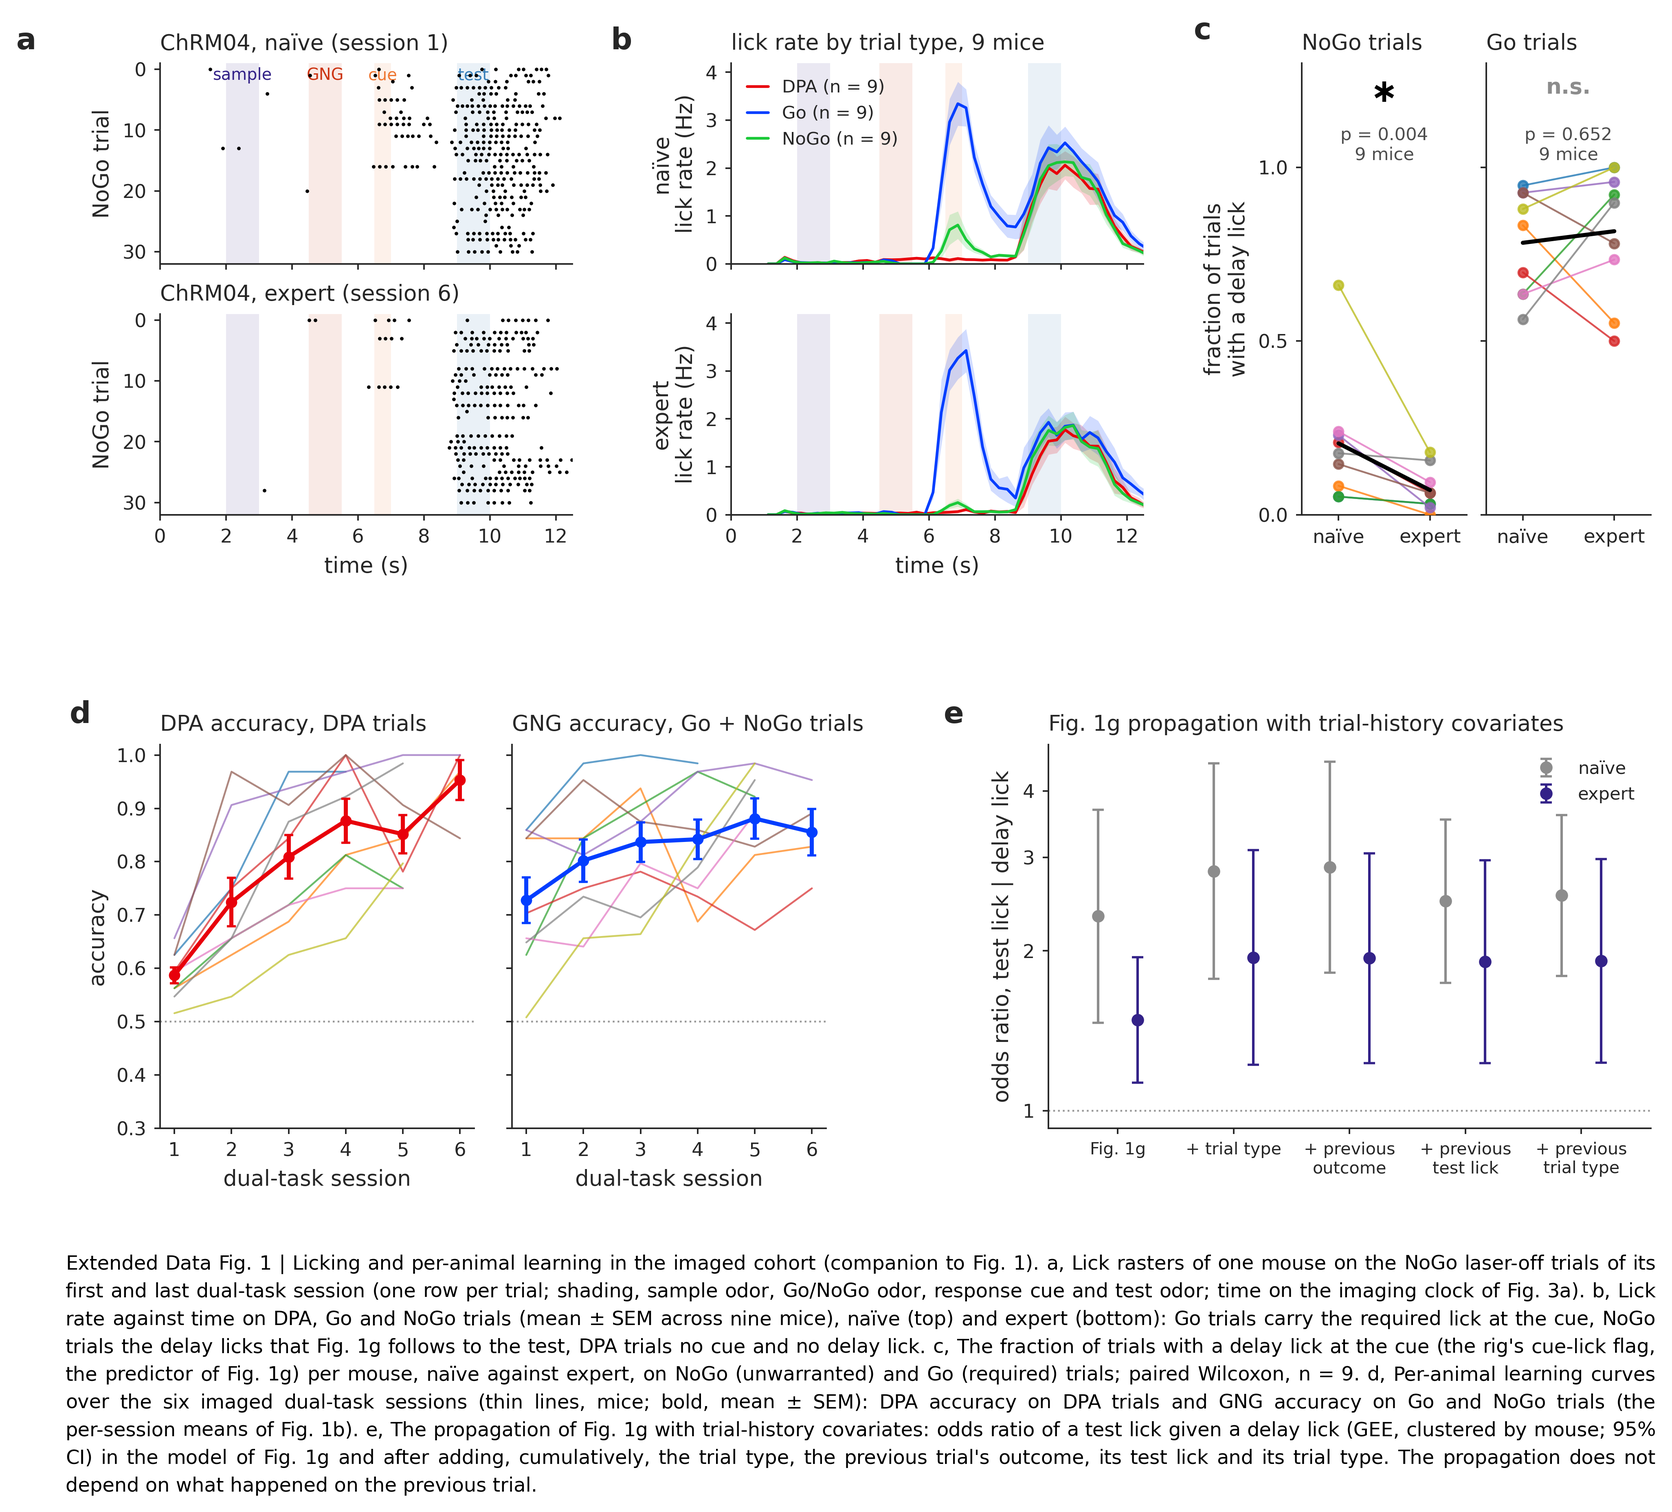
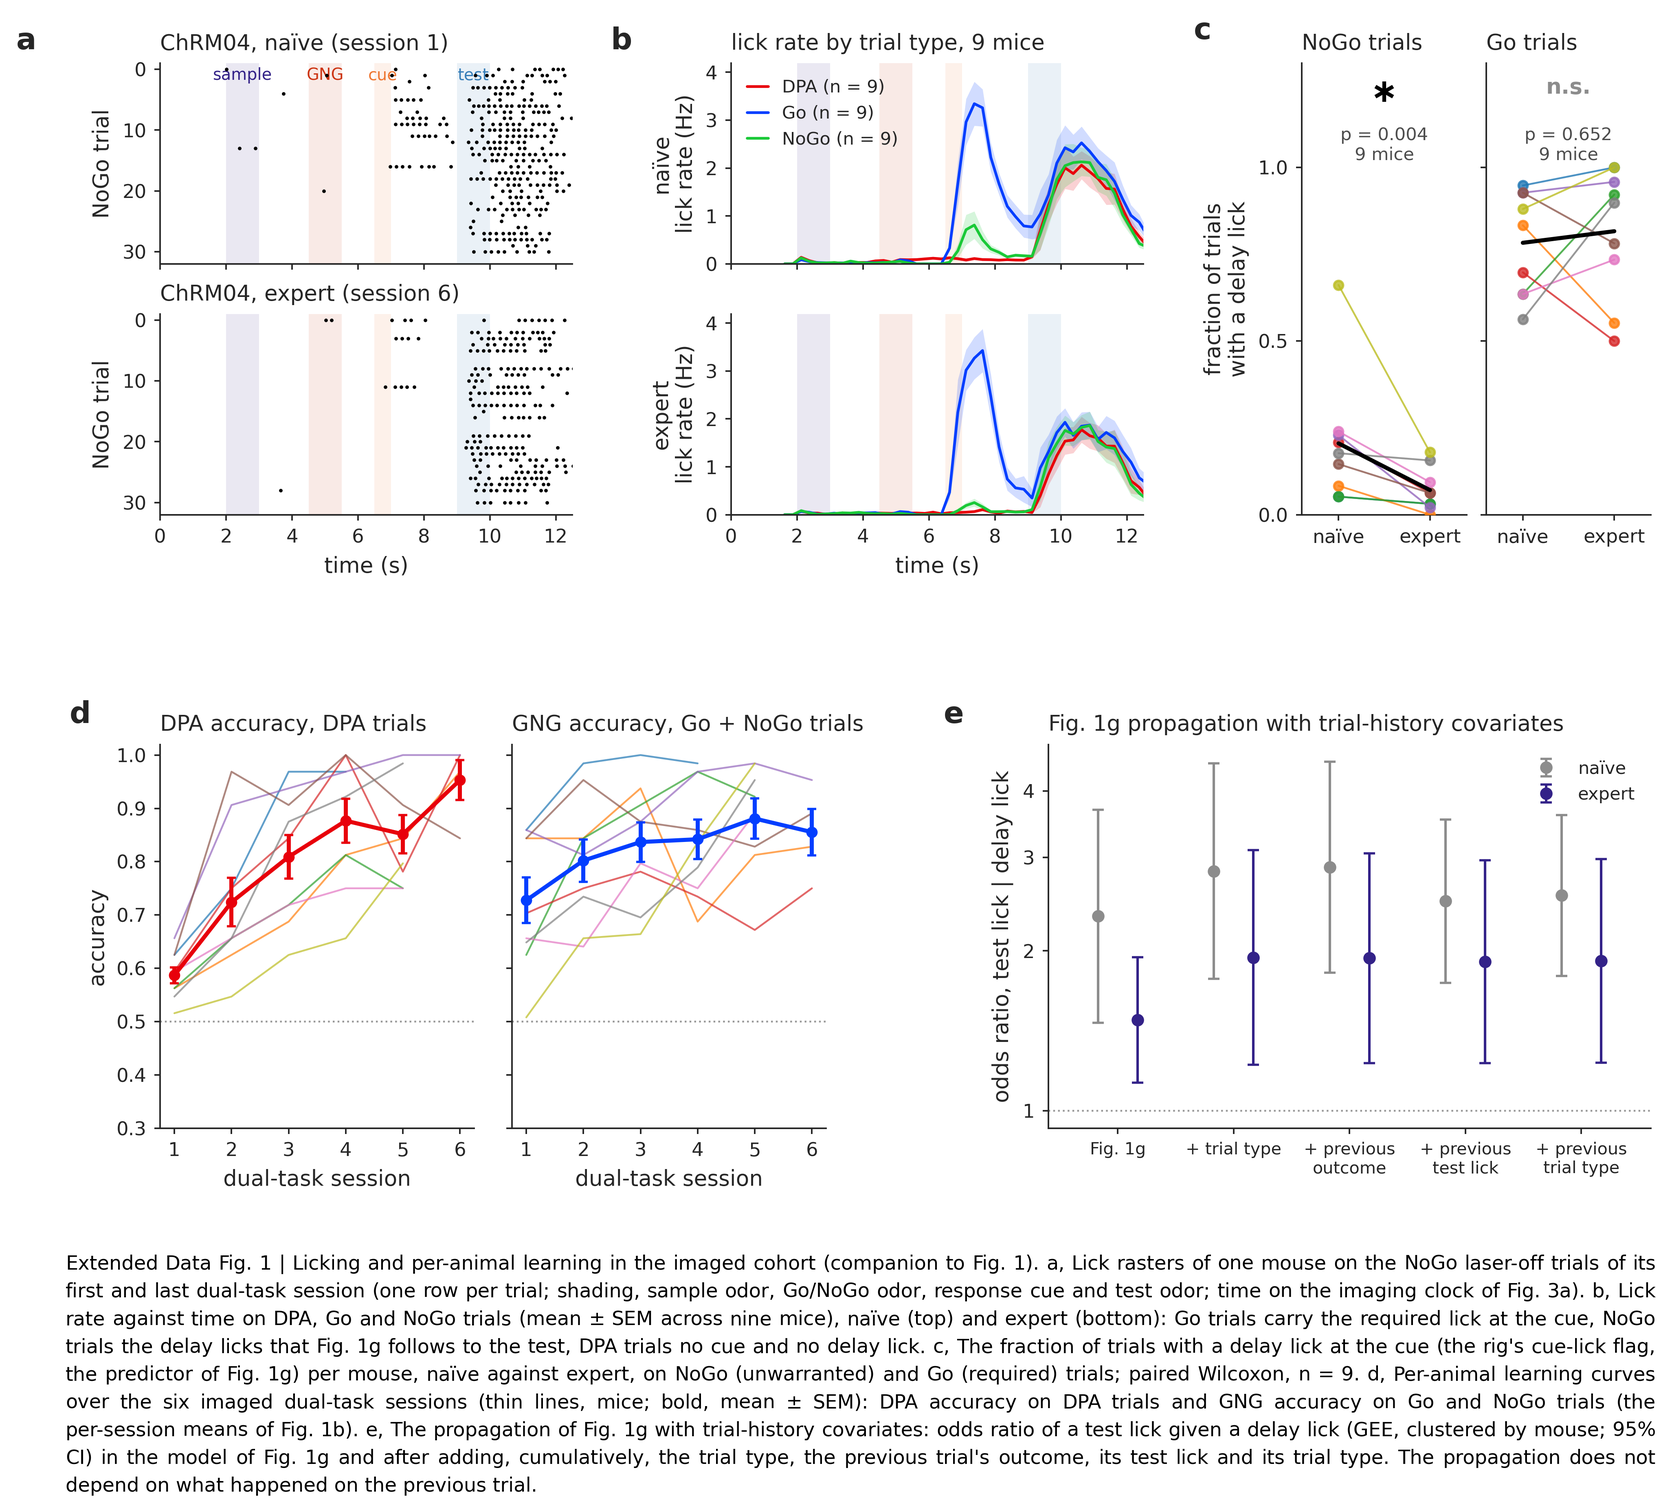
Behaviour-file clock offset is 2.0 s (Sample stamp = sample-odor onset): ED 1 redrawn, lick-control window corrected to 5.5–7.0 s; draft v12.42
The first lick controls used 6.0–7.5 s file time (an assumed 1.5 s offset), which let the first 0.5 s of
test-odor licks into the late-delay window. With the verified offset: late-delay licks on 6.9% of DPA trials
(7.3% naïve, 6.2% expert), per-mouse ρ(depth, lick) +0.05 p .20, covariate β +0.06 p .28, coupling on no-lick
trials ρ −0.80 p .009. Conclusions unchanged; §4, ED 6d legend, docs and memory updated.

Claude-Session: https://claude.ai/code/session_01PzGzWMKHPqqyp4poHedntF

diff --git a/overlaps/fig_ed3_coupling.py b/overlaps/fig_ed3_coupling.py
@@ -248,7 +248,7 @@ def panel_dd(fig, gs):
     pw = L['wilcoxon_p']; sig = pw < 0.05
     ax.text(0.5, 0.97, '∗' if sig else 'n.s.', transform=ax.transAxes, ha='center', va='top', fontsize=PS*(12 if sig else 8), fontweight='bold', color='k' if sig else '0.55')
     lo, hi = ax.get_ylim(); ax.set_ylim(lo - 0.40 * (hi - lo), hi)
-    ax.text(0.97, 0.03, f'median ρ = {L["per"].median():+.2f}\np = {pw:.2f}, 9 mice\n{L["n_trials"]} trials', transform=ax.transAxes, ha='right', va='bottom', fontsize=PS*6.5, color='0.3')
+    ax.text(0.97, 0.03, f'median ρ = {L["per"].median():+.2f}\np = {pw:.2f}, {len(L["per"])} mice\n{L["n_trials"]} trials', transform=ax.transAxes, ha='right', va='bottom', fontsize=PS*6.5, color='0.3')
     # middle: the push on all trials, on no-lick trials, and with a trial-level lick covariate
     ax = fig.add_subplot(gs[0, 1]); axes.append(ax); ticks = []
     for i, (lab, (bta, se, p)) in enumerate([('all', L['push_all'][:3]), ('no-lick', L['push_nolick'][:3]), ('lick', L['push_lick'][:3])]):
@@ -301,13 +301,14 @@ CAP = [
     'mouse to the naïve and expert trials pooled (right; neurons registered in both stages; every trial read from '
     'the fold that held it out; pooled-axis coupling ρ = +0.65 [−0.15, +1.00]). d, Late-delay licking, trial by trial: '
     'every held-out decision function aligned to its behavioural trial (seeded folds and a session trial index; lick '
-    'rate over 6.0–7.5 s after the sample stamp of the behaviour file, the late-delay window of the depth). Left, '
+    'rate over 5.5–7.0 s after sample-odor onset, the 7.5–9.0 s late-delay window of the depth on the imaging clock). Left, '
     'Spearman ρ between depth and lick rate over the trials of each mouse and stage (open, naïve; filled, expert; '
-    'Wilcoxon over the nine per-mouse means: median ρ = +0.06, p = .91; licks on 14.5% of the 1,824 matched trials). '
+    'Wilcoxon over the per-mouse means, eight mice with a late-delay lick at both stages: median ρ = +0.05, p = .20; licks on '
+    '6.9% of the 1,824 matched trials). '
     'Middle, the push (mixed model on mouse × sample × stage means, as in a) on all trials (β = −0.077, p = .14), on the '
-    'trials without a late-delay lick (−0.053, p = .30) and on the trials with one (−0.218, p = .031, 31 cells); a '
-    'trial-level model with the lick rate as a covariate leaves the stage term unchanged (lick β = +0.02, p = .57). '
-    'Right, the coupling with Δdepth computed from no-lick trials only (ρ = −0.78, p = .014; all trials of this run, '
+    'trials without a late-delay lick (−0.072, p = .16) and on the trials with one (−0.156, p = .14, 28 cells); a '
+    'trial-level model with the lick rate as a covariate leaves the stage term unchanged (lick β = +0.06, p = .28). '
+    'Right, the coupling with Δdepth computed from no-lick trials only (ρ = −0.80, p = .009; all trials of this run, '
     'ρ = −0.69, p = .038). This panel reads a re-run of the choice decoder with seeded folds, a new cross-validation '
     'draw of the same pipeline. Mouse colours as in Fig. 4; ∗ p < 0.05, n.s. '
     'otherwise.',

diff --git a/overlaps/exp_lick_control_trial.py b/overlaps/exp_lick_control_trial.py
@@ -7,8 +7,8 @@ the labels (and seeds its folds), and the choice decoder was re-run under `--tag
 Every held-out decision function therefore maps to one row of the session's behaviour .mat (AllTrials order = imaging
 order: tasks and laser agree on 100 % of trials in all 47 readable sessions; .mat `sample` 1/2 = sample_odor 0/1,
 .mat `pair` 1-4 = odor_pair 0, 2, 1, 3). Depth as in Fig. 4: decoders trained at the decision window 54-62, read at
-late delay 45-53, RAW log-odds; laser-off DPA trials. Late-delay licks = lick times 6.0-7.5 s after the .mat `Sample`
-stamp (= imaging 7.5-9.0 s = bins 45-53).
+late delay 45-53, RAW log-odds; laser-off DPA trials. Late-delay licks = lick times 5.5-7.0 s after the .mat `Sample`
+stamp (= imaging 7.5-9.0 s = bins 45-53; the stamp is the sample-odor onset at imaging 2.0 s).
 
   1. trial-level association   per mouse x stage Spearman(depth, lick rate) -> Wilcoxon over the nine mice (stages
                                averaged); trial-level LMM depth ~ stage + sample + lick rate + (1 | mouse)
@@ -30,7 +30,7 @@ from src.common.options import set_options
 PATH = '/storage/leon/dual_task/data/2Samples-DualTask-BehavioralData'
 MICE = ['JawsM01', 'JawsM06', 'JawsM12', 'JawsM15', 'JawsM18', 'ChRM04', 'ChRM23', 'ACCM03', 'ACCM04']
 TDUM = 'log_generalizing_overlaps_none_l1_ratio_0.0_raw_targets_choice_trial'
-ACT, LD, DELAY = np.arange(54, 63), np.arange(45, 54), (6.0, 7.5)
+ACT, LD, DELAY = np.arange(54, 63), np.arange(45, 54), (5.5, 7.0)   # 5.5-7.0 s after the .mat 'Sample' stamp = imaging 7.5-9.0 s = bins_LD 45-53: the stamp IS the sample-odor onset (imaging 2.0 s; Test stamp = +7.0 s = imaging 9.0 s). FIXED 2026-09-16 — the first build used 6.0-7.5 (an assumed 1.5 s offset), which let the first 0.5 s of test-odor licks into the 'late-delay' window
 
 # ── the CCGD depth, one row per held-out trial, with its session trial index ──
 y = pkl_load(f'labels_{TDUM}', path='../data/overlaps'); X = np.asarray(pkl_load(f'X_{TDUM}', path='../data/overlaps'))

diff --git a/overlaps/exp_lick_control_ccgd.py b/overlaps/exp_lick_control_ccgd.py
@@ -6,8 +6,7 @@ choice decision function (tensor X_<BDUM>, choice rows, decoders trained at the 
 at late delay 45–53, RAW log-odds, laser-off DPA trials — identical to main_panels.lick_depth.
 
 Trial alignment is impossible (ccgd_validation returns rows in unseeded fold order), so the control is at the
-level the §4 claim needs: per mouse x sample x stage. Late-delay lick rate (7.0–7.5 s after sample onset, the
-window of the old control) comes from the behaviour .mat files, per laser-off DPA trial, averaged per
+level the §4 claim needs: per mouse x sample x stage. Late-delay lick rate (5.5-7.0 s after the sample stamp = imaging 7.5-9.0 s; fixed 2026-09-16) comes from the behaviour .mat files, per laser-off DPA trial, averaged per
 mouse x sample class x stage.
   push     depth ~ stage + sample [+ lick] + (1|mouse), 36 obs
   coupling per-mouse Spearman Δdepth vs ΔDPA accuracy (GNG-free DPA trials), partial for Δlick
@@ -27,7 +26,7 @@ from src.common.options import set_options
 PATH = '/storage/leon/dual_task/data/2Samples-DualTask-BehavioralData'
 MICE = ['JawsM01', 'JawsM06', 'JawsM12', 'JawsM15', 'JawsM18', 'ChRM04', 'ChRM23', 'ACCM03', 'ACCM04']
 BDUM = 'log_generalizing_overlaps_none_l1_ratio_0.0_raw_targets_choice-gng-sample-test'
-ACT, LD, DELAY = np.arange(54, 63), np.arange(45, 54), (6.0, 7.5)   # 6.0-7.5 s after the .mat 'Sample' stamp = imaging 7.5-9.0 s = bins_LD (the stamp sits 1.5 s before the imaging clock: cue licks peak at 5.0-6.0, test licks at 7.5-9.0)
+ACT, LD, DELAY = np.arange(54, 63), np.arange(45, 54), (5.5, 7.0)   # 5.5-7.0 s after the .mat 'Sample' stamp = imaging 7.5-9.0 s = bins_LD 45-53: the stamp IS the sample-odor onset (imaging 2.0 s; Test stamp = +7.0 s = imaging 9.0 s). FIXED 2026-09-16 — the first build used 6.0-7.5 (an assumed 1.5 s offset), which let the first 0.5 s of test-odor licks into the 'late-delay' window
 SAMPLES = [('A', [0, 1]), ('B', [2, 3])]
 
 # ── the CCGD depth (held-out decision functions), exactly as Fig. 4 ──

diff --git a/overlaps/fig_ed_behavior.py b/overlaps/fig_ed_behavior.py
@@ -4,8 +4,8 @@ licks"; per-animal learning curves; a trial-history control for Fig. 1g).
 
   a  lick rasters, one example mouse, NoGo laser-off trials of its first and last dual-task session
   b  lick-rate time courses per trial type (DPA / Go / NoGo) and stage, mean ± SEM across the nine mice
-     (behaviour-file lick times, drawn on the imaging clock of Figs 3a / ED 4a: the file's sample stamp sits
-     1.5 s before it)
+     (behaviour-file lick times, drawn on the imaging clock of Figs 3a / ED 4a: the file's sample stamp is the
+     sample-odor onset, imaging 2.0 s)
   c  delay-lick rate per mouse (the rig's cue-lick flag `odr_choice`, Fig. 1g's predictor), NoGo and Go trials,
      naïve → expert, paired Wilcoxon n = 9
   d  per-animal learning curves: DPA accuracy (DPA trials) and GNG accuracy (Go + NoGo trials) per session,
@@ -49,7 +49,8 @@ TASK_COL = {'DPA': '#e8000b', 'DualGo': '#023eff', 'DualNoGo': '#1ac938'}
 TASK_LAB = {'DPA': 'DPA', 'DualGo': 'Go', 'DualNoGo': 'NoGo'}
 STAGES = ['Naive', 'Expert']; SC = {'Naive': '0.55', 'Expert': '#332288'}
 EVENTS = [('sample', 2.0, 3.0, '#332288'), ('GNG', 4.5, 5.5, '#cc3311'), ('cue', 6.5, 7.0, '#ee7733'), ('test', 9.0, 10.0, '#377eb8')]
-OFFSET = 1.5                                   # imaging clock = behaviour-file time + 1.5 s (lick PSTH check, 2026-09-15)
+OFFSET = 2.0                                   # imaging clock = behaviour-file time + 2.0 s: the file's Sample stamp IS the sample-odor onset
+                                               # (FirstOdor == Sample; Test == Sample + 7.0 s == imaging 9.0 s; GNG odor 2.5 s, cue 4.5 s) — checked 2026-09-16
 PATH = '/storage/leon/dual_task/data/2Samples-DualTask-BehavioralData'
 EXAMPLE = 'ChRM04'
 

diff --git a/docs/paper/results_draft.md b/docs/paper/results_draft.md
@@ -1,5 +1,15 @@
 # Compositional learning by geometric editing — main paper (draft v12)
 
+> **v12.42 (2026-09-16): LICK-CONTROL WINDOW CORRECTED — THE BEHAVIOUR FILE'S SAMPLE STAMP IS THE SAMPLE-ODOR ONSET (imaging 2.0 s),
+> NOT 1.5 s BEFORE IT** (Leon: "check the cue offset in ED 1b"). Verified on the stamps: FirstOdor == Sample, Test == Sample + 7.0 s
+> (= imaging 9.0 s), odor 1 s, GNG odor at +2.5 s, cue at +4.5 s — every event maps with a 2.0 s offset, and Go-trial first licks
+> follow the cue by 0.35–0.65 s (with 1.5 s they would have preceded it). The late-delay lick window of ED 6d (and of the
+> gallery-only mouse-level control) was therefore 6.0–7.5 s file time = imaging 8.0–9.5 s, letting the first 0.5 s of test-odor
+> licks in; corrected to 5.5–7.0 s (= bins 45–53). Late-delay licks fall from 14.5% to 6.9% of DPA trials (7.3% naïve, 6.2% expert —
+> not a learning change); per-mouse ρ(depth, lick) median +0.05, p = .20 (8 mice with licks at both stages); lick covariate β +0.06
+> p .28; push no-lick −0.072 p .16 / lick −0.156 p .14; coupling on no-lick trials ρ −0.80 p .009. Conclusions unchanged; §4 and
+> the ED 6d legend carry the new numbers. ED 1a,b redrawn with the 2.0 s clock.
+
 > **v12.41 (2026-09-16): SUPPLEMENTARY REVIEW APPLIED — NINE EXTENDED DATA FIGURES, RENUMBERED BY FIRST CITATION** (Leon:
 > "Use a placeholder figure for (1) for now, build ED 7 with the licks, and the rest of the fixes"). New: ED 1 behaviour
 > (`overlaps/fig_ed_behavior.py`: lick rasters/PSTHs from the behaviour files, delay-lick rate per mouse, per-animal learning
@@ -766,7 +776,7 @@ of trials. Within naïve unpaired trials, the trial-by-trial depth of the state 
 detectably separate correct rejections from false alarms (Fig. 4d; sample A Δ(CR−FA) = −1.05, p = 0.26; sample B +1.17, p = 0.49), so we found no evidence that the repositioning is a
 within-stage readout of accuracy rather than a between-animal learning effect. Second, what
 moved was the position of the state rather than the code itself, since we found no detectable
-change in the discriminability of the choice code across learning (Fig. 4e; d′ 0.55 → 0.63, Δ = +0.09, p = 0.57). Third, late-delay licks were rare (one laser-off DPA trial in seven carried one over the late-delay window; 18% of naïve and 10% of expert trials), and trial by trial their rate carried no information about the depth of the state (Spearman ρ within mouse and stage, median +0.06, p = 0.91 over mice; lick-rate covariate β = +0.02, p = 0.57); the coupling held on the trials without a lick (ρ = −0.78, p = 0.014; Extended Data Fig. 6d). Two caveats also apply.
+change in the discriminability of the choice code across learning (Fig. 4e; d′ 0.55 → 0.63, Δ = +0.09, p = 0.57). Third, late-delay licks were rare (one laser-off DPA trial in fourteen carried one over the late-delay window; 7% at both stages), and trial by trial their rate carried no information about the depth of the state (Spearman ρ within mouse and stage, median +0.05, p = 0.20 over the eight mice that licked at both stages; lick-rate covariate β = +0.06, p = 0.28); the coupling held on the trials without a lick (ρ = −0.80, p = 0.009; Extended Data Fig. 6d). Two caveats also apply.
 The push is directional rather than a precise magnitude, because part of the per-stage change
 is a reorganization of the decoder axis itself: in the raw units of Fig. 4 it is a trend (p = 0.10) that reaches significance only in evoked-s.d. (p = 0.007) and whole-trial-s.d. (p = 0.045) units, remaining a trend of the same sign (p = 0.08–0.11) under the other normalizations of the axis (Extended Data Fig. 6a), and on one axis fitted to both stages together it is a trend of the same sign (β = −0.06, p = 0.059; Extended Data Fig. 6c). And the
 behavioral coupling is an individual-difference correlation over nine animals, whose robustness
@@ -1532,15 +1542,15 @@ that held it out): the push is a trend of the same sign (β = −0.056, p = .059
 and reverses as a trend (ρ = +0.65, p = .058; bootstrap 95% CI over mice [−0.15, +1.00]) — the coupling is carried by
 the stage-specific readouts. d,
 Late-delay licking, trial by trial: every held-out decision function aligned to its behavioural trial (seeded folds and a
-session trial index; lick rate over 6.0–7.5 s after the behaviour file's sample stamp = the 7.5–9.0 s late-delay window of
-the depth). Left, Spearman ρ between depth and lick rate over the trials of each mouse and stage (open, naïve; filled,
-expert; Wilcoxon over the nine per-mouse means: median ρ = +0.06, p = .91; licks on 14.5% of the 1,824 matched trials,
-17.9% naïve, 10.1% expert). Middle, the push (mixed model on mouse × sample × stage means, as in a) on all trials
-(β = −0.077, p = .14), on the trials without a late-delay lick (−0.053, p = .30) and on the trials with one (−0.218,
-p = .031, 31 cells); a trial-level model with the lick rate as a covariate leaves the stage term unchanged (lick β = +0.02,
-p = .57). Right, the coupling with Δdepth computed from no-lick trials only (ρ = −0.78, p = .014; all trials of this run,
-ρ = −0.69, p = .038). This panel reads a re-run of the choice decoder with seeded folds, a new cross-validation draw of
-the same pipeline.
+session trial index; lick rate over 5.5–7.0 s after sample-odor onset, the 7.5–9.0 s late-delay window of the depth on the
+imaging clock). Left, Spearman ρ between depth and lick rate over the trials of each mouse and stage (open, naïve; filled,
+expert; Wilcoxon over the per-mouse means, eight mice with a late-delay lick at both stages: median ρ = +0.05, p = .20; licks
+on 6.9% of the 1,824 matched trials, 7.3% naïve, 6.2% expert). Middle, the push (mixed model on mouse × sample × stage means,
+as in a) on all trials (β = −0.077, p = .14), on the trials without a late-delay lick (−0.072, p = .16) and on the trials with
+one (−0.156, p = .14, 28 cells); a trial-level model with the lick rate as a covariate leaves the stage term unchanged (lick
+β = +0.06, p = .28). Right, the coupling with Δdepth computed from no-lick trials only (ρ = −0.80, p = .009; all trials of
+this run, ρ = −0.69, p = .038). This panel reads a re-run of the choice decoder with seeded folds, a new cross-validation draw
+of the same pipeline.
 
 > **REINSTATED 2026-09-15 (Leon: "reinstate the fixed-axis and lick controls with the CCGD pipeline").** The two
 > controls withdrawn earlier the same day (they projected training trials on fold-averaged weights) are back on

diff --git a/docs/overlaps/overview.md b/docs/overlaps/overview.md
@@ -40,7 +40,7 @@
 > (8.1 min; `..._raw_targets_choice_trial`) + `exp_lick_control_trial.py` give ED 4d at the TRIAL level: every held-out
 > decision function maps to its behaviour-file trial (AllTrials order = imaging order, verified on all 47 readable sessions;
 > .mat `sample` 1/2 = A/B, `pair` 1-4 = odor_pair 0, 2, 1, 3). Lick rate carries no depth information (per-mouse median
-> ρ +0.06 p .91; covariate β +0.02 p .57); coupling on no-lick trials ρ −0.78 p .014; this re-run's all-trial coupling is
+> ρ +0.05 p .20 — window CORRECTED 2026-09-16 to 5.5–7.0 s file time = imaging 7.5–9.0 s, licks on 6.9% of trials; covariate β +0.06 p .28); coupling on no-lick trials ρ −0.80 p .009; this re-run's all-trial coupling is
 > ρ −0.69 p .038 — the canonical −0.80 is one CV draw of the decoder, expect ±0.1 across draws. Draft v12.39.)_
 
 > **CANONICAL AXIS WINDOWS since 2026-09-08 (Leon: "same windows for all panels").** Sample and distractor decoder axes = bins **36–38** (6.0–6.5 s, post-distractor pre-cue); choice and test axes = bins **54–62** (9.0–10.5 s, test onset → 0.5 s after test offset) — the SAME bin indices in the overlaps (CCGD) and pseudo-population pipelines. Every "57–62 / 16–47 / 58–83 / 33–38 / 57–65 / 45–59 (opto depth)" axis window quoted below is the pre-flip convention (reachable with `--legacyaxes`); read-out windows (mid-delay 33–38 or 36–38, late delay 45–53 or 48–53, Fig 3b decision read 60–66) are unchanged. Numbers under the new axes: Fig 4 push β = −1.15 p = .007, coupling ρ = −0.72 p = .030 (norm battery all p ≤ .05, leave-one-out 4/9); Fig 3c choice out-vs-full a trend (p = .098); Fig 3e T/W 0.90 / 0.72; Fig 6 ΔGNG clustered p = .009. Variant table (windows A–E) and the flip recipe: memory `project_axis_windows.md`; text audit = draft v12.20 banner in `docs/paper/results_draft.md`.

diff --git a/docs/rebuild_timings.md b/docs/rebuild_timings.md
@@ -96,3 +96,5 @@ place or from somewhere less direct.
 | 2026-09-15 18:07 | trial-level lick control 2026-09-15 | exp_lick_control_trial.py (tensor + .mat per-trial licks) | 0.1 | measured |
 | 2026-09-16 12:56 | supplementary review 2026-09-16 | fig_ed_behavior.py (47 .mat files, 5 GEE fits x 2 stages) | 1.0 | measured in-session |
 | 2026-09-16 12:56 | supplementary review 2026-09-16 | fig_ed_imaging.py (loads the 2.5 GB canonical tensor) | 1.0 | measured in-session |
+| 2026-09-16 13:04 | cue-offset fix 2026-09-16 | exp_lick_control_trial.py (late-delay window 5.5-7.0 s file time) | 0.1 | measured |
+| 2026-09-16 13:04 | cue-offset fix 2026-09-16 | exp_lick_control_ccgd.py (late-delay window 5.5-7.0 s file time) | 0.1 | measured |
